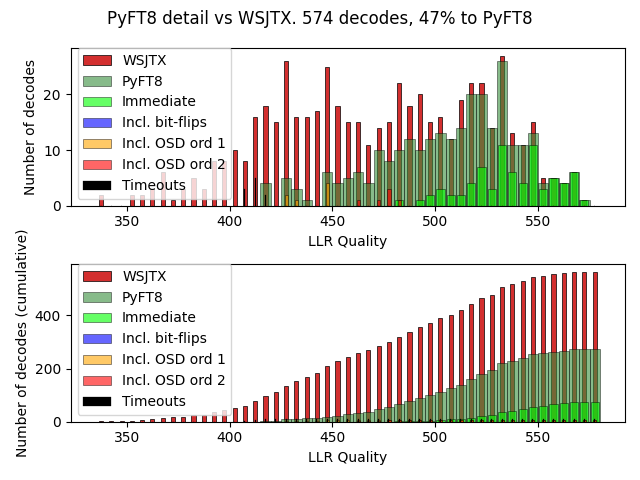
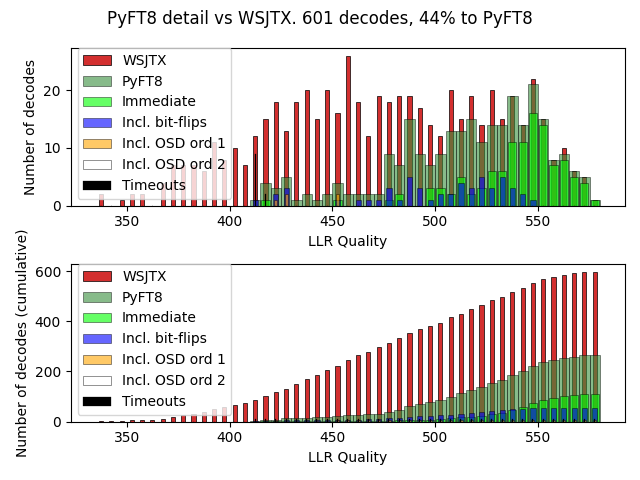
tuning snapshot

diff --git a/PyFT8/cycle_manager.py b/PyFT8/cycle_manager.py
@@ -13,10 +13,11 @@ import wave
 import os
 
 eps = 1e-12
-LLR_SHAPING = {'final_sd':3.5, 'clip':3.9}
-LLR_QUALITY = {'abs_min':405, 'bitflip_range':[405,0], 'osd_range':[405, 455, 485]}
-BITFLIPS = { 'width':12, 'max_flips':2}
-STALL_CRITERIA = {'Max_its':10, "Max_same":2}
+LLR_GEN =   {'abs_min':410, 'final_sd':3.5, 'clip':3.9}
+OSD1 =      {'range':[0, 550], 'params':[1,30]}
+OSD2 =      {'range':[470, 470], 'params':[2,5]}
+BITFLIPS =  {'range':[0,550], 'width':30, 'max_flips':1}
+LDPC_STALL = {'Max_its':10, "Max_same":2}
 
 CHECK_VARS_6 = np.array([[4,31,59,92,114,145],[5,23,60,93,121,150],[6,32,61,94,95,142],[5,31,63,96,125,137],[8,34,65,98,138,145],[9,35,66,99,106,125],[11,37,67,101,104,154],[12,38,68,102,148,161],[14,41,58,105,122,158],[0,32,71,105,106,156],[15,42,72,107,140,159],[10,43,74,109,120,165],[7,45,70,111,118,165],[18,37,76,103,115,162],[19,46,69,91,137,164],[1,47,73,112,127,159],[21,46,57,117,126,163],[15,38,61,111,133,157],[22,42,78,119,130,144],[19,35,62,93,135,160],[13,30,78,97,131,163],[2,43,79,123,126,168],[18,45,80,116,134,166],[11,49,60,117,118,143],[12,50,63,113,117,156],[23,51,75,128,147,148],[20,53,76,99,139,170],[34,81,132,141,170,173],[13,29,82,112,124,169],[3,28,67,119,133,172],[51,83,109,114,144,167],[6,49,80,98,131,172],[22,54,66,94,171,173],[25,40,76,108,140,147],[26,39,55,123,124,125],[17,48,54,123,140,166],[5,32,84,107,115,155],[8,53,62,130,146,154],[21,52,67,108,120,173],[2,12,47,77,94,122],[30,68,132,149,154,168],[4,38,74,101,135,166],[1,53,85,100,134,163],[14,55,86,107,118,170],[22,33,70,93,126,152],[10,48,87,91,141,156],[28,33,86,96,146,161],[21,56,84,92,139,158],[27,31,71,102,131,165],[0,25,44,79,127,146],[16,26,88,102,115,152],[50,56,97,162,164,171],[20,36,72,137,151,168],[15,46,75,129,136,153],[2,23,29,71,103,138],[8,39,89,105,133,150],[17,41,78,143,145,151],[24,37,64,98,121,159],[16,41,74,128,169,171]], dtype = np.int16)
 CHECK_VARS_7 = np.array([[3,30,58,90,91,95,152],[7,24,62,82,92,95,147],[4,33,64,77,97,106,153],[10,36,66,86,100,138,157],[7,39,69,81,103,113,144],[13,40,70,87,101,122,155],[16,36,73,80,108,130,153],[44,54,63,110,129,160,172],[17,35,75,88,112,113,142],[20,44,77,82,116,120,150],[18,34,58,72,109,124,160],[6,48,57,89,99,104,167],[24,52,68,89,100,129,155],[19,45,64,79,119,139,169],[0,3,51,56,85,135,151],[25,50,55,90,121,136,167],[1,26,40,60,61,114,132],[27,47,69,84,104,128,157],[11,42,65,88,96,134,158],[9,43,81,90,110,143,148],[29,49,59,85,136,141,161],[9,52,65,83,111,127,164],[27,28,83,87,116,142,149],[14,57,59,73,110,149,162]], dtype = np.int16)
@@ -122,7 +123,7 @@ class Candidate:
         self.ldpc_stall = (99,0)
         self.ldpc_iters = 0
         self.osd_runs = 0
-        self.llr_quality = 0
+        self.llr0_quality = 0
         self.n_bitflip_calls = 0
         self.msg = None
         self.snr = -999
@@ -151,15 +152,16 @@ class Candidate:
         llr = np.column_stack((llr0, llr1, llr2))
         llr = llr.ravel()
  
-        llr_clipto = LLR_SHAPING['clip']
-        self.llr = np.clip(LLR_SHAPING['final_sd'] * llr / np.std(llr), -llr_clipto, llr_clipto)
+        llr_clipto = LLR_GEN['clip']
+        self.llr = np.clip(LLR_GEN['final_sd'] * llr / np.std(llr), -llr_clipto, llr_clipto)
 
         s = np.sign(self.llr)
-        self.llr_quality = np.sum(s * self.llr)
+        self.llr0_quality = np.sum(s * self.llr)
         self.ncheck = self.calc_ncheck(self.llr)
         self.ncheck0 = self.ncheck
+        self.llr0 = self.llr.copy()
         
-        if(self.llr_quality < LLR_QUALITY['abs_min']):
+        if(self.llr0_quality < LLR_GEN['abs_min']):
             self.record_state(f">", self.ncheck, final = True)
         else:
             self.record_state("I", self.ncheck)
@@ -201,16 +203,16 @@ class Candidate:
         self.llr += delta
         self.ncheck = self.calc_ncheck(self.llr)
 
-    def flip_bits(self):
+    def flip_bits(self, width, nbits, keep_best = False):
         bad6 = CHECK_VARS_6[self.parity6.astype(bool)] 
         bad7 = CHECK_VARS_7[self.parity7.astype(bool)] 
         bad_vars = np.concatenate([bad6.ravel(), bad7.ravel()])
         counts = np.bincount(bad_vars, minlength=len(self.llr))
         cands = np.argsort(counts)[::-1]
-        idxs = cands[:BITFLIPS['width']]
+        idxs = cands[:nbits]
         
         best = {'llr':self.llr.copy(), 'nc':self.ncheck}
-        for k in range(1, BITFLIPS['max_flips'] + 1):
+        for k in range(1, width + 1):
             for comb in itertools.combinations(range(len(idxs)), k):
                 self.llr[idxs[list(comb)]] *= -1
                 n = self.calc_ncheck(self.llr)
@@ -218,7 +220,7 @@ class Candidate:
                     best = {'llr':self.llr.copy(), 'nc':n}
                     if n == 0:
                         break
-                else:
+                if n >= best['nc'] or not keep_best:
                     self.llr[idxs[list(comb)]] *= -1
         self.llr   = best['llr']
         self.ncheck = best['nc']
@@ -226,13 +228,13 @@ class Candidate:
     def attempt_reduce_ncheck(self):
 
         if(self.ncheck >0 and self.n_bitflip_calls <1 and self.ldpc_iters > 1):
-            bfrng = LLR_QUALITY['bitflip_range']
-            if(self.llr_quality < bfrng[1] and self.llr_quality > bfrng[0]):
-                self.flip_bits()
+            bfrng = BITFLIPS['range']
+            if(self.llr0_quality < bfrng[1] and self.llr0_quality > bfrng[0]):
+                self.flip_bits(BITFLIPS['max_flips'], BITFLIPS['width'], keep_best = False)
                 self.n_bitflip_calls +=1
                 return "B"
 
-        if self.ncheck >0 and self.ldpc_iters <= STALL_CRITERIA['Max_its'] and self.ldpc_stall[1] <= STALL_CRITERIA['Max_same']:  
+        if self.ncheck >0 and self.ldpc_iters <= LDPC_STALL['Max_its'] and self.ldpc_stall[1] <= LDPC_STALL['Max_same']:  
             self.do_ldpc_iteration()
             self.ldpc_iters += 1
             if(self.ncheck < self.ldpc_stall[0]):
@@ -241,41 +243,39 @@ class Candidate:
                 self.ldpc_stall = (self.ldpc_stall[0], self.ldpc_stall[1]+1)
             return "L"
         
-        if(self.ncheck >0 and self.osd_runs < 1):
-            osdrng = LLR_QUALITY['osd_range']
-            if(self.llr_quality>osdrng[0] and self.llr_quality < osdrng[2]):
-                self.osd_runs +=1
-                if(self.llr_quality < osdrng[1]):
+        if(self.ncheck >0 and self.osd_runs < 1): # need to consider overlap
+            if(OSD1['range'][0] <= self.llr0_quality <= OSD2['range'][1]):
+                if(OSD1['range'][0] <= self.llr0_quality <= OSD1['range'][1]):
+                    o,l = OSD1['params'][0],OSD1['params'][1]
+                    codeword_bits, metric = osd_decode_minimal(self.llr0, G, order=o, L=o)
                     code = "Q"
-                    codeword_bits, metric = osd_decode_minimal(self.llr.copy(), G, order=1, L=30)
-                else:
-                    codeword_bits, metric = osd_decode_minimal(self.llr.copy(), G, order=2, L=6)
+                if(OSD2['range'][0] <= self.llr0_quality <= OSD2['range'][1]):
+                    o,l = OSD2['params'][0],OSD2['params'][1]
+                    codeword_bits, metric = osd_decode_minimal(self.llr0, G, order=o, L=l)
                     code = "QQ"
-                if check_crc_codeword_list(codeword_bits):
-                    llr = np.array([1 if(b==1) else -1 for b in codeword_bits])
-                    ncheck = self.calc_ncheck(llr)
-                    if(ncheck < self.ncheck):    
-                        self.ncheck = ncheck
-                        self.llr = llr
+                self.osd_runs +=1
+                self.llr = np.array([1 if(b==1) else -1 for b in codeword_bits])
+                self.ncheck = self.calc_ncheck(self.llr)
                 return code
 
         return "_"
 
     def progress_decode(self):
+        final = False
         
-        if(time.time() %15 > 11 and self.neighbours is not None):
+        if(time.time() %15 > 10 and self.neighbours is not None):
             for n in self.neighbours:
                 if(n.demap_completed):
-                    if n.llr_quality > self.llr_quality:
+                    if n.llr0_quality > self.llr0_quality:
                         self.record_state("D", self.ncheck, final = True)
                         return
 
         if(self.ncheck > 0):
             actor = self.attempt_reduce_ncheck()
-            stalled = (actor == "_")
+            stalled = (actor == "_" or actor == "Q" or actor == "QQ")
             self.record_state(actor, self.ncheck, final = stalled)
 
-        if(self.ncheck == 0):
+        if(self.ncheck == 0 or final):
             codeword_bits = (self.llr > 0).astype(int).tolist()
             if check_crc_codeword_list(codeword_bits):
                 self.payload_bits = codeword_bits[:77]
@@ -389,7 +389,7 @@ class Cycle_manager():
                     c.demap(self.spectrum)
 
             to_progress_decode = [c for c in self.cands_list if c.demap_completed and not c.decode_completed]
-            to_progress_decode.sort(key = lambda c: -c.llr_quality) # in case of emergency (timeouts) process best first
+            to_progress_decode.sort(key = lambda c: -c.llr0_quality) # in case of emergency (timeouts) process best first
             for c in to_progress_decode[:10]:
                 c.progress_decode()
 

diff --git a/tests/test_compare_vs_wsjtx.py b/tests/test_compare_vs_wsjtx.py
@@ -64,6 +64,8 @@ def analyse_dictionaries():
             best[key] = (score, w, c)
     matches = [(w, c) for (_, w, c) in best.values()]
 
+    wsjtx_cofreqs = [w['f'] for w,c in matches for w2,c in matches if 0 < np.abs(w['f'] - w2['f']) <= 2]
+
     pyft8 = [c for c in pyft8_cands if c.msg]
     pyft8_msgs = [c.msg for c in pyft8]
     pyft8 = [c for c in pyft8 if c.msg not in pyft8_msgs]
@@ -74,10 +76,11 @@ def analyse_dictionaries():
     with open('compare_wsjtx.csv', 'a') as f:
         for w, c in matches:
             td = f"{c.decode_completed %60:5.2f}" if c.decode_completed else '     '
-            basics = f"{c.cyclestart_str} {w['f']:4d} {c.fHz:4d} {w['snr']:+03d} {c.snr:+03d} {w['dt']:4.1f} {c.dt:4.1f} {w['td']} {td}"
+            cofreq = "cofreq" if w['f'] in wsjtx_cofreqs else "  --  "
+            basics = f"{c.cyclestart_str} {w['f']:4d} {cofreq} {c.fHz:4d} {w['snr']:+03d} {c.snr:+03d} {w['dt']:4.1f} {c.dt:4.1f} {w['td']} {td}"
             msg = ' '.join(c.msg) if c.msg else ''
             if(msg !=''): unique.add(msg)
-            op = f"{basics} {w['msg']:<25} {msg:<25} {c.sync_score:5.2f} {c.llr_quality:5.0f} {c.decode_path}"
+            op = f"{basics} {w['msg']:<25} {msg:<25} {c.sync_score:5.2f} {c.llr0_quality:5.0f} {c.decode_path}"
             f.write(f"{op}\n")
             print(op)
 
@@ -86,7 +89,7 @@ def analyse_dictionaries():
             basics = f"{c.cyclestart_str} {0:4d} {c.fHz:4d} {-99:+03d} {c.snr:+03d} {0.0:4.1f} {c.dt:4.1f} {"99.99"} {td}"
             msg = ' '.join(c.msg) if c.msg else ''
             if(msg !=''): unique.add(msg)
-            op = f"{basics} {'      ':<25} {msg:<25} {c.sync_score:5.2f} {c.llr_quality:5.0f} {c.decode_path}"
+            op = f"{basics} {'      ':<25} {msg:<25} {c.sync_score:5.2f} {c.llr0_quality:5.0f} {c.decode_path}"
             f.write(f"{op}\n")
             print(op)
 
@@ -105,7 +108,7 @@ def update_charts():
     global fig, ax
     
     if any(pyft8_cands):
-        demapper_output = [c.llr_quality for c in pyft8_cands]
+        demapper_output = [c.llr0_quality for c in pyft8_cands]
         ax.hist(demapper_output, label = "Initial",
             cumulative = 0, color = '#388E3C', alpha = 0.8, lw=0.5, edgecolor = "black")
         plt.pause(0.1)

diff --git a/tests/test_plot.py b/tests/test_plot.py
@@ -5,8 +5,8 @@ fig, axes = plt.subplots(2,1)
 w,p,pi,pl,po,po2,pb,fg,ft = [],[],[],[],[],[],[],[],[]
 with open(f"compare_wsjtx.csv", "r") as f:
     for lfull in f.readlines():
-        pdec = lfull[81] != " "
-        l = lfull[114:]
+        pdec = lfull[88] != " "
+        l = lfull[121:]
         q = l[0:3]
         q=float(q)
         w.append(q)
@@ -16,7 +16,7 @@ with open(f"compare_wsjtx.csv", "r") as f:
             if("L" in l): pl.append(q)
             if("Q" in l and not "QQ" in l): po.append(q)
             if("QQ" in l): po2.append(q)
-            if("B" in l): pb.append(q)
+            if("B" in l and "L00" in l): pb.append(q)
         else:
             if("#" in l): fg.append(q)
             if(not "#" in l): ft.append(q)
@@ -39,7 +39,7 @@ for i in [0,1]:
     axes[i].hist(po, bins = bins, label = "Incl. OSD ord 1", rwidth=0.3,
             cumulative = i, color = 'orange', alpha = 0.6, lw=0.5, edgecolor = "black")
     axes[i].hist(po2, bins = bins, label = "Incl. OSD ord 2", rwidth=0.3,
-            cumulative = i, color = 'red', alpha = 0.6, lw=0.5, edgecolor = "black")
+            cumulative = i, color = 'white', alpha = 0.6, lw=0.5, edgecolor = "black")
     axes[i].hist(ft, bins = bins, label = "Timeouts", rwidth=0.1,
             cumulative = i, color = 'black', alpha = 1.0, lw=0.2, edgecolor = "black")
 
